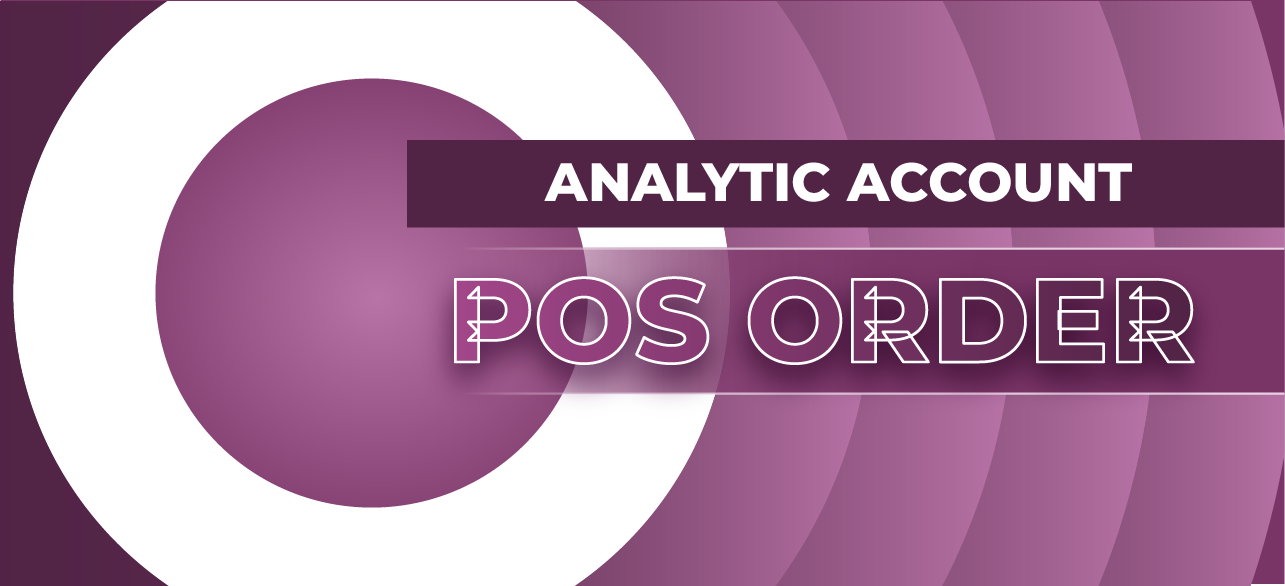
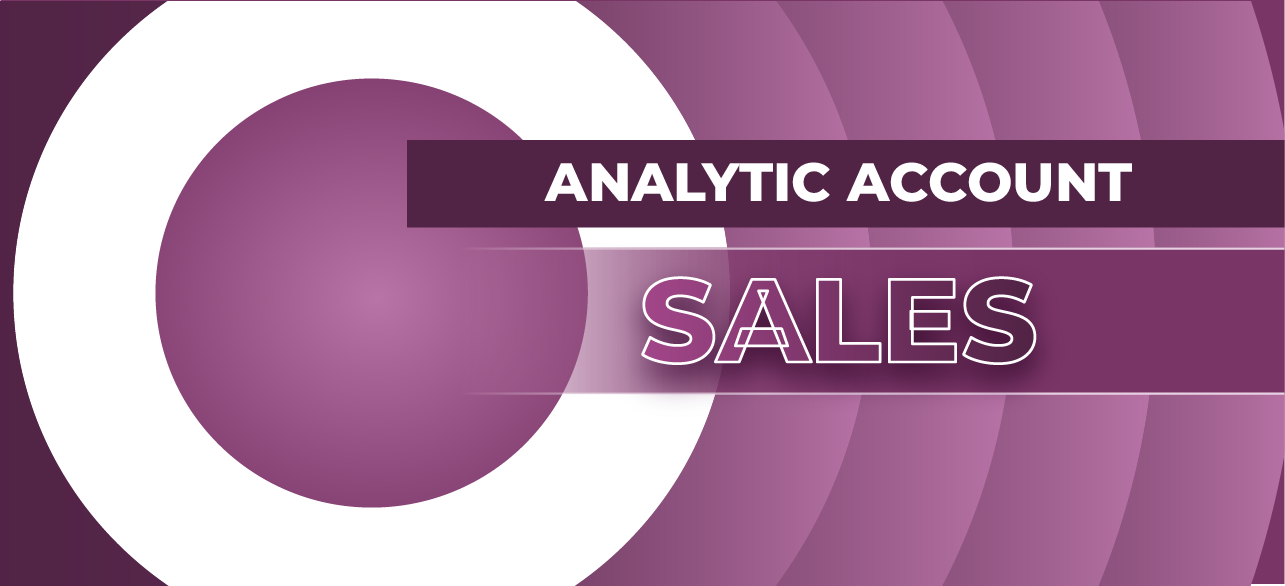
fsdfsdfd

Changed region(s): [[0.3424, 0.4608, 0.9339, 0.6758]]

diff --git a/7d_pos_test/static/description/index.html b/7d_pos_test/static/description/index.html
@@ -1,4 +1,4 @@
-<!--------------- Navbar Section ----------------------------------------------------------------->
+ <!--------------- Navbar Section ----------------------------------------------------------------->
 <section style="width: 100%;font-family:sans-serif;">
      <div style="display: flex;
                align-items: center;
@@ -69,6 +69,8 @@
 </section>
 <!-- ------------------------------------------------------------------------------------------ -->
 
+
+
 <!----------------------- Features Section ------------------------------------------------>
 <section style="display: grid;
      grid-template-columns:1fr 1fr;
@@ -81,53 +83,98 @@
      <h2 style="grid-column: 1/3; text-align: center; color: #676767; font-weight: 700;">
           FEATURES
      </h2>
+
      <div
           style="background-color: #f6edf3; border-radius: 8px; padding: 20px; box-shadow: 0px 4px 8px rgba(0, 0, 0, 0.1); margin: 20px;">
-          <img src="images/features-1.png" style="width: 90px; padding: 10px 0;" />
-          <h2 style="font-size: 20px; margin-bottom: 10px;"> Allows you to maintain the POS Orders' Accounting</h2>
+          <img src="images/features-1.png" style="width: 90px; padding: 10px;" />
+          <h2 style="font-size: 20px; margin-bottom: 10px;"> Allows you to maintain the Distribution Sales Orders’ Accounting</h2>
           <!-- <p>text1111111.</p> -->
      </div>
      <div
           style="background-color: #f6edf3; border-radius: 8px; padding: 20px; box-shadow: 0px 4px 8px rgba(0, 0, 0, 0.1); margin: 20px;">
-          <img src="images/features-2.png" style="width: 90px; padding: 10px 0;" />
+          <img src="images/features-2.png" style="width: 90px;padding: 10px;" />
           <h2 style="font-size: 20px; margin-bottom: 10px;"> Helps in a separate Journal Entry posting
           </h2>
           <!-- <p>text22222.</p> -->
      </div>
      <div
           style=" grid-column: 1/3 ;background-color: #f6edf3; border-radius: 8px; padding: 20px; box-shadow: 0px 4px 8px rgba(0, 0, 0, 0.1); margin: 20px;">
-          <img src="images/features-3.png" style="width: 90px; padding: 10px 0;" />
-          <h2 style="font-size: 20px; margin-bottom: 10px;"> Helps in managing a separate sales budget for POS teams
-          </h2>
+          <img src="images/features-3.png" style="width: 90px;padding: 10px;" />
+          <h2 style="font-size: 20px; margin-bottom: 10px;"> Helps in managing a separate sales budget for B2B Sales teams</h2>
           <!-- <p>text22222.</p> -->
      </div>
 </section>
 <!-- ------------------------------------------------------------------------------------------ -->
 
+
+
+      
+      
+
 <section style="
-     display: grid;
-     grid-template-columns: 1fr 1fr;
-     grid-template-rows: auto;
-     justify-content: center;
-     background-color: #f6edf3;
-     padding-bottom: 50px;
-     padding-top: 50px;
-     font-family:sans-serif;">
-     <h2 style="grid-column: 1/3; text-align: center; color: #676767; font-weight: 700;">
-          HOW IT WORKS
-     </h2>
-     <div
-          style=" grid-column: 1/3 ;background-color: #ffffff; border-radius: 8px; padding: 20px; box-shadow: 0px 4px 8px rgba(0, 0, 0, 0.1); margin: 20px;">
-          <h2 style="font-size: 20px; margin-bottom: 10px;">
-               No Configuration Required, just Install and Use
+display: grid;
+grid-template-columns: 1fr 1fr;
+grid-template-rows: auto;
+justify-content: center;
+background-color: #f6edf3;
+padding-bottom: 50px;
+padding-top: 50px;
+font-family:sans-serif;">
+<h2 style="grid-column: 1/3; text-align: center; color: #676767; font-weight: 700;">
+     HOW IT WORKS
+</h2>
+
+ <div
+     style=" grid-column: 1/3 ;background-color: #ffffff; border-radius: 8px; padding: 20px; box-shadow: 0px 4px 8px rgba(0, 0, 0, 0.1); margin: 20px;">
+      <h2 style="font-size: 20px; margin-bottom: 10px; text-align: center;">  
+     <p class="mt10"> No Configuration Required, just Install and Use
+         </p>
           </h2>
-          <!-- <p>text22222.</p> -->
-     </div>
+     <!-- <p>text22222.</p> -->
+</div>
+
+
+
+ 
 </section>
-<!-- ------------------------------------------------------------------------------------------ -->
+     <!----------------------- SUGGESTED MODULES Section ------------------------------------------------>
+     <!-- <div
+          style="display: flex; flex-wrap: wrap; align-items:stretch; justify-content: center; background-color: #ffffff; margin-bottom: 50px; padding-bottom: 50px;padding-top: 50px;">
+          <h2
+               style="display: block; width: 100%; text-align: center; font-size: 50px; color: #676767; font-weight: 700;">
+               SUGGESTED MODULES
+          </h2>
+          <p style="font-size: 18px; display: block; width: 100%; text-align: center; margin-top: 0;">Check out our
+               related modules</p>
+          <div
+               style="width: 25%; background-color: #ffffff; border-radius: 8px; padding: 20px; box-shadow: 0px 4px 8px rgba(0, 0, 0, 0.1); margin: 20px;">
+               <img src="images/Suggested 1 Stock_Type.png" style="width: 10vh; margin-bottom: 20px;" />
+               <h2 style="font-size: 25px; margin-bottom: 10px;">Stock_Type</h2>
+          </div>
+          <div
+               style="width: 25%; background-color: #ffffff; border-radius: 8px; padding: 20px; box-shadow: 0px 4px 8px rgba(0, 0, 0, 0.1); margin: 20px;">
+               <img src="images/Suggested 2 Re-Ordering.png" style="width: 10vh; margin-bottom: 20px;" />
+               <h2 style="font-size: 25px; margin-bottom: 10px;">Dynamic Reordering Rules
+               </h2>
+          </div>
+          <div
+               style="width: 25%; background-color: #ffffff; border-radius: 8px; padding: 20px; box-shadow: 0px 4px 8px rgba(0, 0, 0, 0.1); margin: 20px;">
+               <img src="images/Suggested 3 Min-Max.png" style="width: 10vh; margin-bottom: 20px;" />
+               <h2 style="font-size: 25px; margin-bottom: 10px;">Min-Max (Internal Transfers)
+               </h2>
+          </div>
+     </div> -->
+     <!-- ------------------------------------------------------------------------------------------ -->
+
+ <!-- ------------------------------------------------------------------------------------------ -->
 
 <!-- Footer Section -->
 <section style="width: 100%;font-family:sans-serif;">
      <img src="images/footer-gif.gif" style="padding-top: 25px; width: 100%;height: auto;">
 </section>
 <!-- ------------------------------------------------------------------------------------------ -->
+
+
+
+
+
